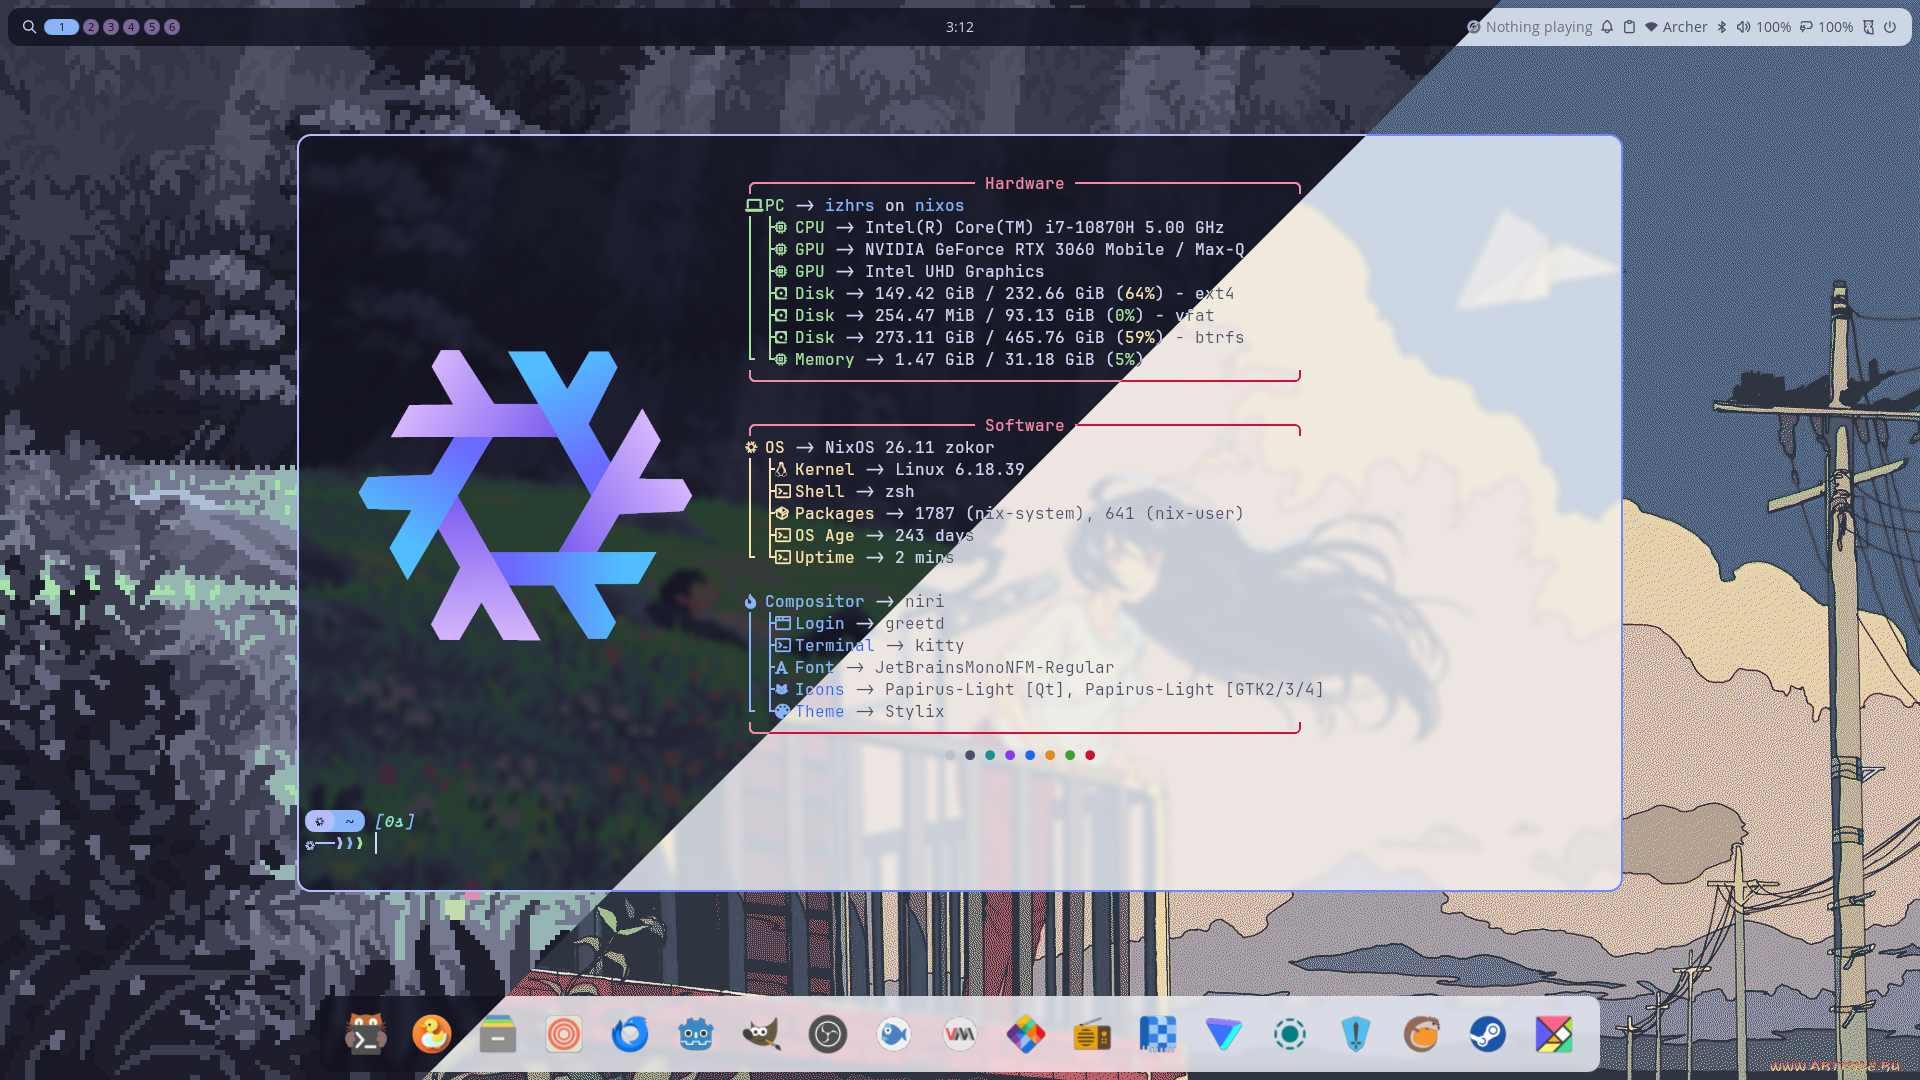
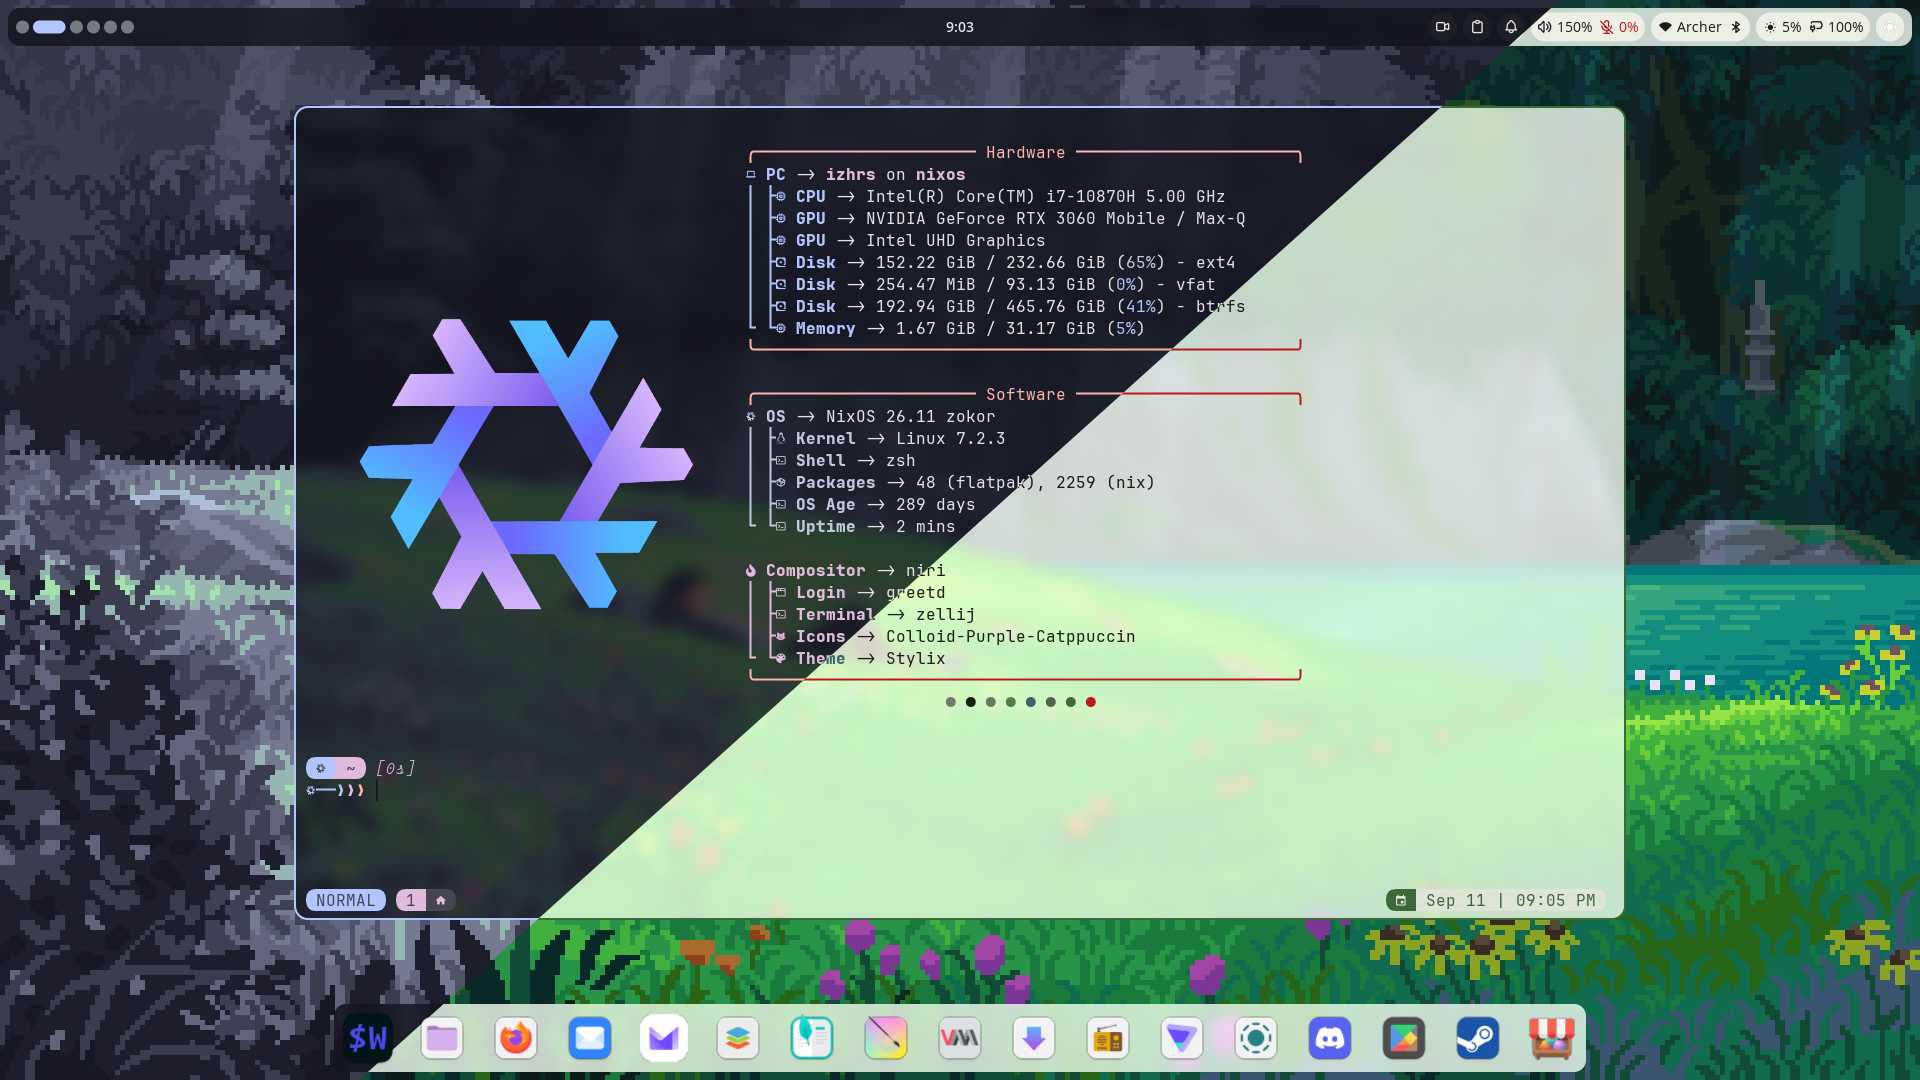
chore(screenshots): update screenshots

diff --git a/README.md b/README.md
@@ -4,27 +4,25 @@
 <!-- NixOS (Blue) -->
 <img src="https://img.shields.io/badge/NixOS-94e2d5?logo=nixos&logoColor=1e1e2e" />
 
-<!-- Home Manager (Sky) -->
-<img src="https://img.shields.io/badge/Home%20Manager-f5c2e7?logo=nixos&logoColor=1e1e2e" />
-
 <!-- Niri DE (Maroon) -->
 <img src="https://img.shields.io/badge/Niri-eba0ac?logo=niri&logoColor=1e1e2e" />
+
+<!-- Noctalia (Yellow) -->
+<img src="https://img.shields.io/badge/Noctalia-f9e2af?logo=phoenixframework&logoColor=1e1e2e" />
+
+<!-- Home Manager (Sky) -->
+<img src="https://img.shields.io/badge/Home%20Manager-f5c2e7?logo=nixos&logoColor=1e1e2e" />
 
 <!-- Helix (Mauve) -->
 <img src="https://img.shields.io/badge/Helix-cba6f7?logo=helix&logoColor=1e1e2e" />
 
 <!-- Yazi (Blue) -->
 <img src="https://img.shields.io/badge/Yazi-74c7ec?logo=fireship&logoColor=1e1e2e" />
-
-<!-- Yazi (Pink) -->
-<img src="https://img.shields.io/badge/Starship-f5c2e7?logo=starship&logoColor=1e1e2e" />
 </p>
 
 <p align="center"> Welcome to my Nix Dotfiles, a configuration using Home Manager as a nix module, featuring the Niri, Noctalia, Catppuccin theme via Stylix, and essential development tools. </p>
 
 ## Screenshots
-
-some of these are old COSMIC screenshots, will update soon
 
 ### Fastfetch
 
@@ -35,27 +33,23 @@ some of these are old COSMIC screenshots, will update soon
 
 ### Light and Dark
 
-![stylix](./screenshots/stylix.png)
+![GTK applications](./screenshots/gtk.png)
 
 ### Zellij
 
-![zellij](./screenshots/zellij_light_dark.png)
+![zellij](./screenshots/zellij.png)
 
 ### Helix with Yazi
 
 ![helix_with_yazi](./screenshots/helix_with_yazi.png)
 
-### Helix with Lazygit
+<!-- ### Helix with Lazygit -->
 
-![helix_with_lazygit](./screenshots/helix_with_lazygit.png)
+<!-- ![helix_with_lazygit](./screenshots/helix_with_lazygit.png) -->
 
 ### Helix
 
 ![helix](./screenshots/helix.png)
-
-### Helix with Gemini
-
-![helix_with_gemini](./screenshots/helix_with_gemini.png)
 
 ### Tiles
 
@@ -66,7 +60,7 @@ some of these are old COSMIC screenshots, will update soon
 ## Project Structure
 
 > [!note]
-> This configuration is built for my personal use. I don't intend for others to use it as-is, and making it portable or beginner-friendly is not a goal of this dotfiles. There is no setup script. That said, the code is structured so that individual program configurations are easy to lift out. Each program lives in its own directory and is self-contained, it only relies on flake inputs and Stylix. The use of Home Manager as a NixOS module is purely for integration (with stylix) convenience. I highly recommend setting up [Stylix](https://github.com/nix-community/stylix).
+> This configuration is built for my personal use. I don't intend for others to use it as-is, and making it portable or beginner-friendly is not a goal of this dotfiles. There is no setup script. This setup now uses Noctalia (not Stylix) to dynamically generate theme and restyle applications every time the wallpaper changes, live at runtime instead of at rebuild time.
 
 ```.
 ├── home/
